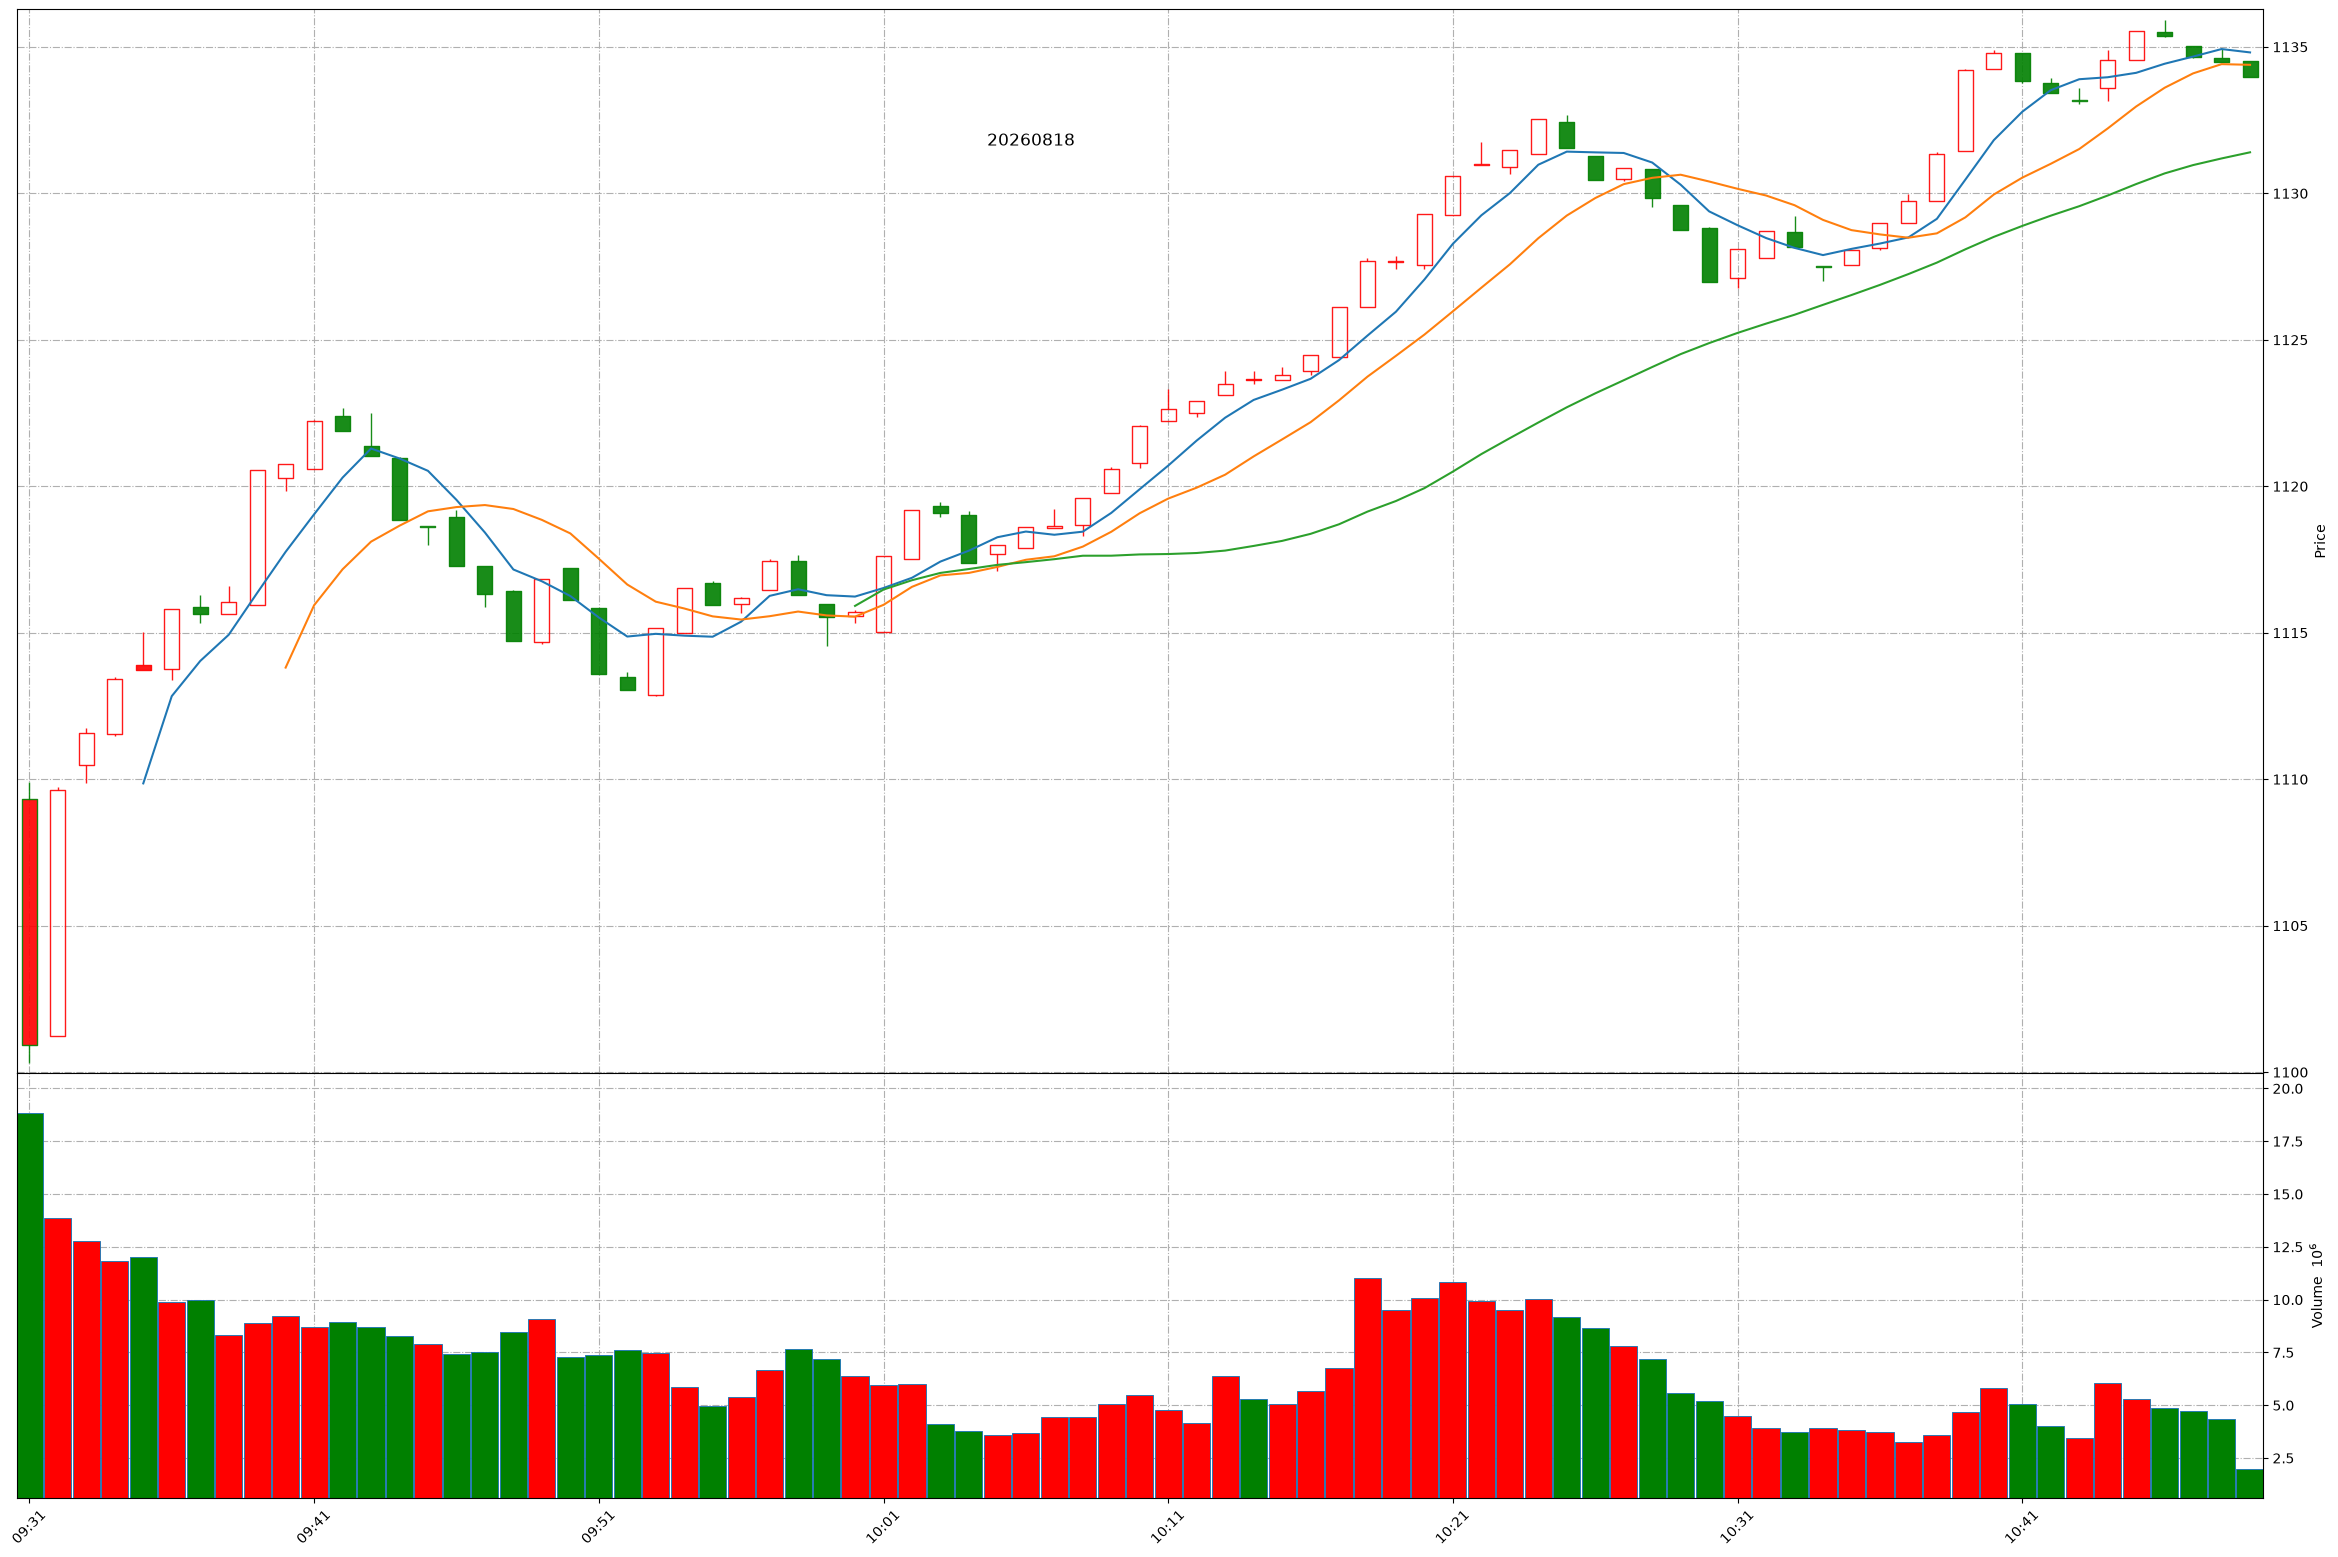
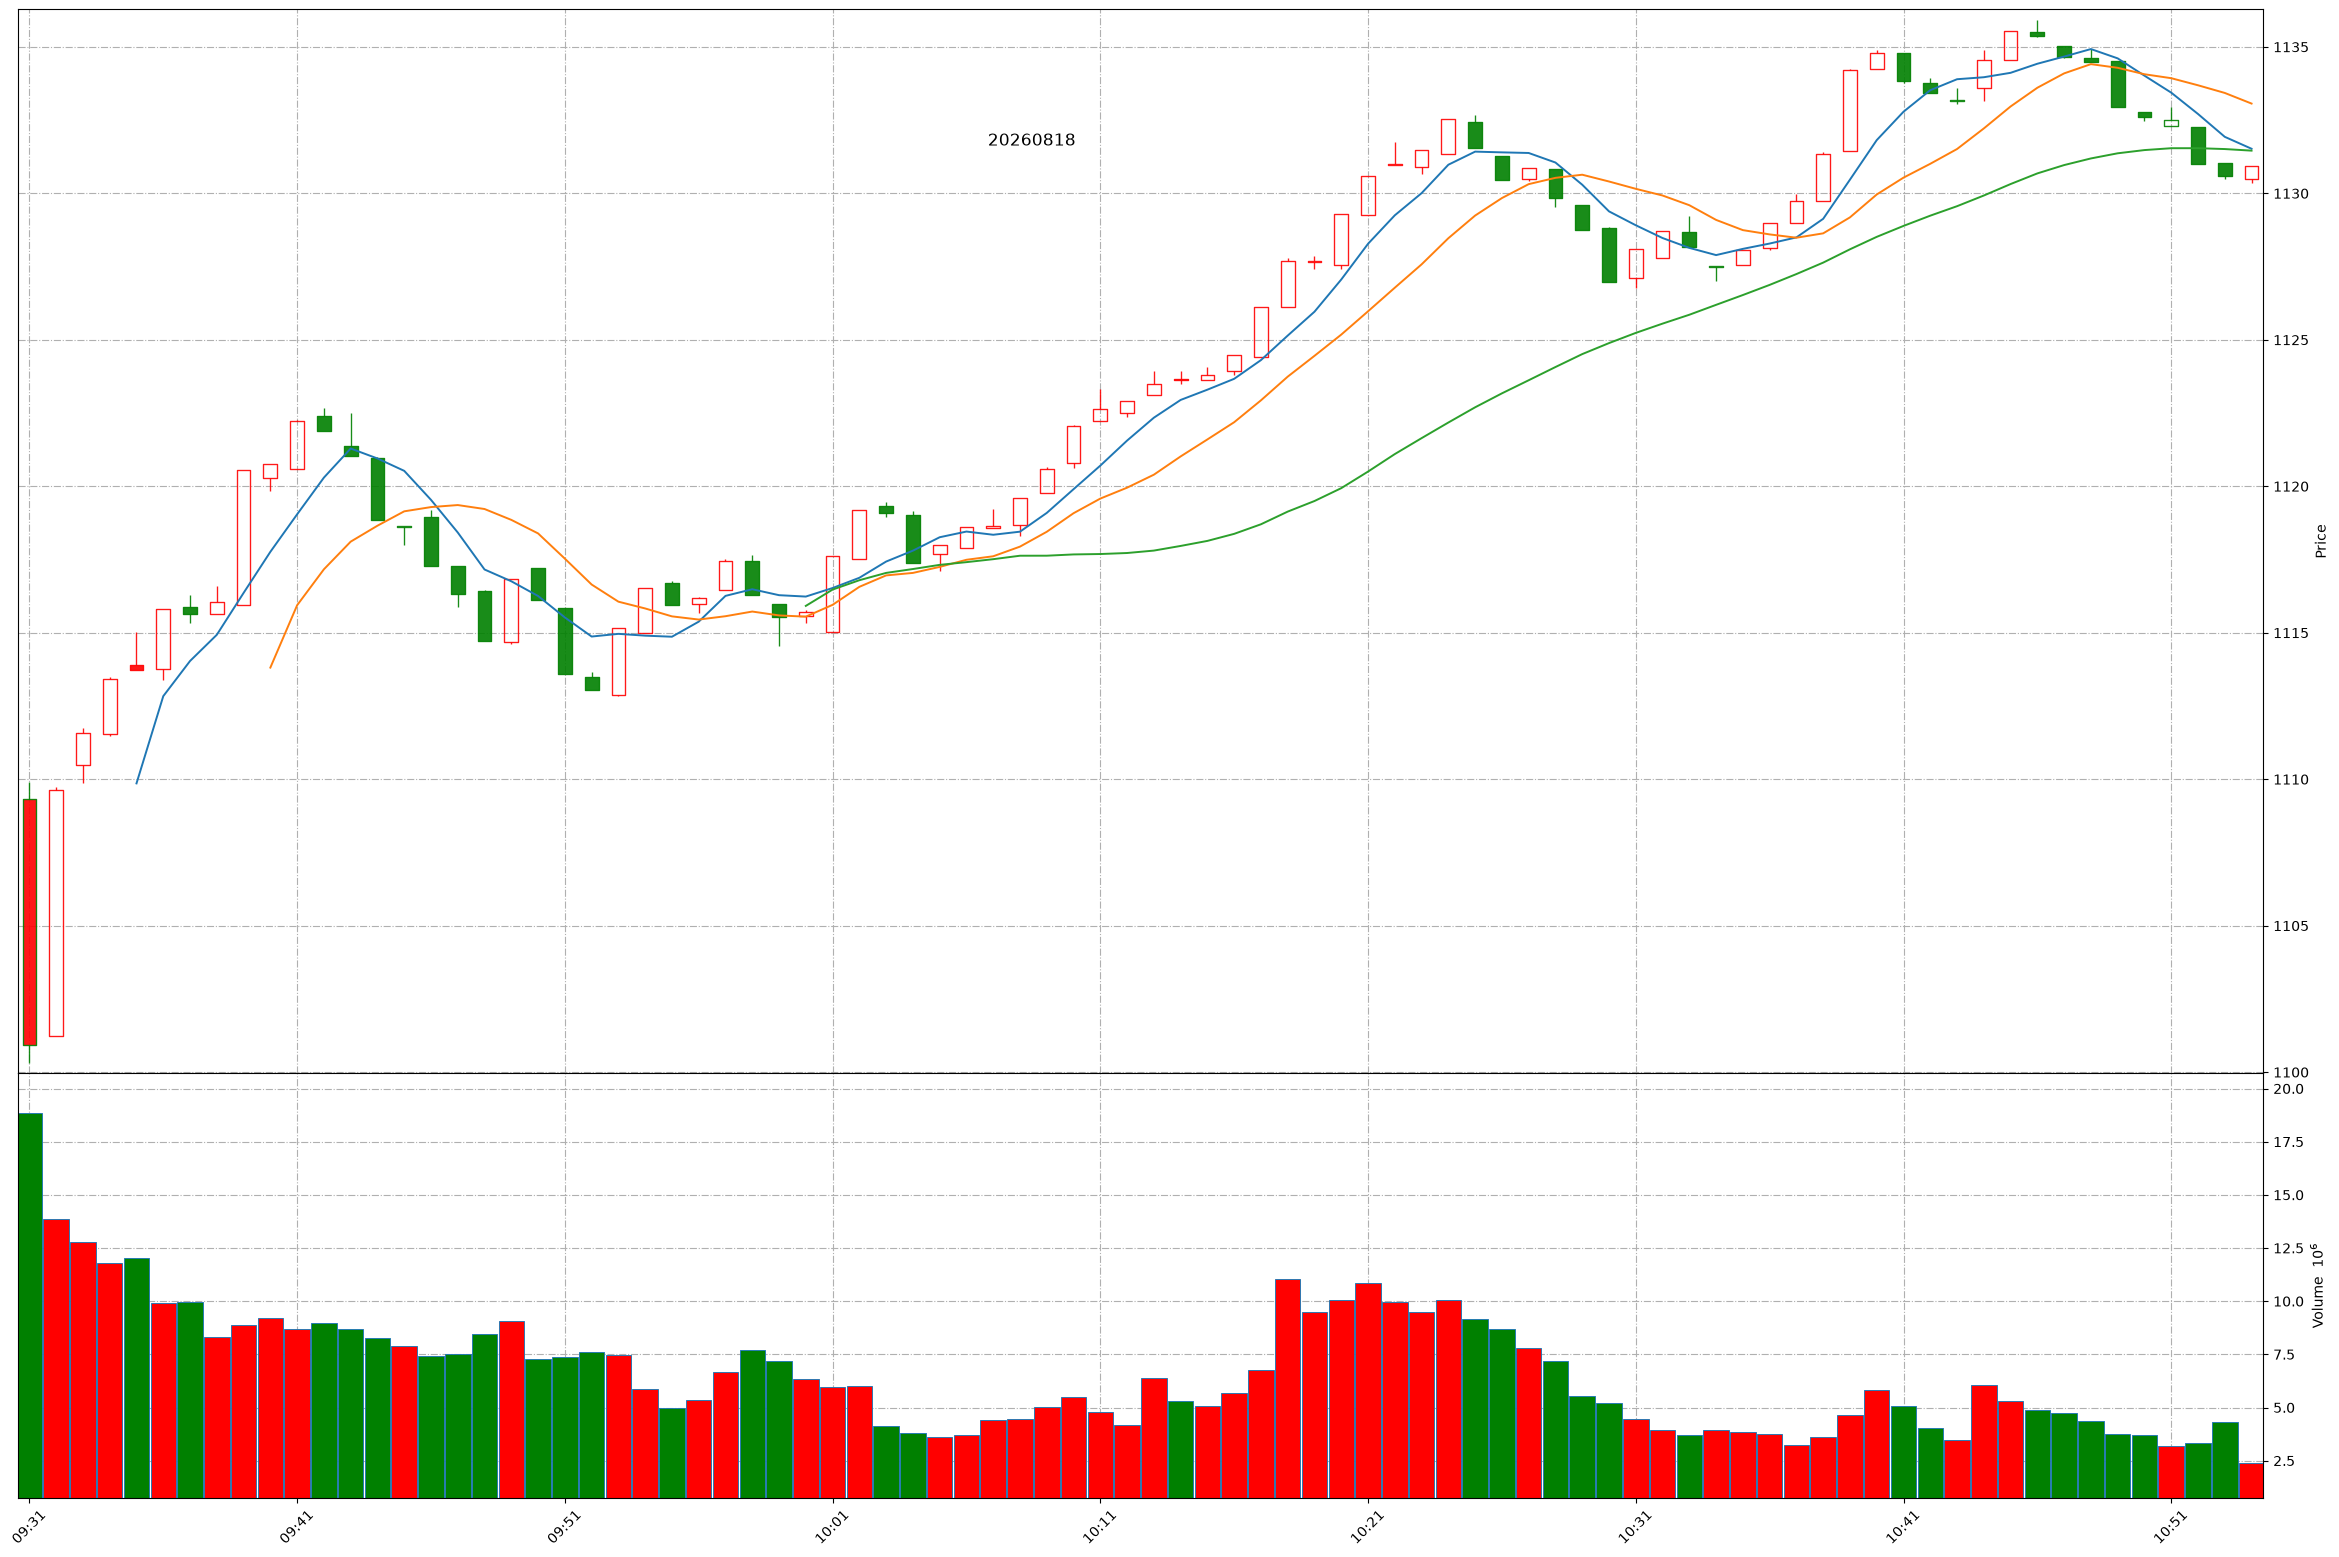
Github action update at 2026-08-18 10:54:08.

diff --git a/README.md b/README.md
@@ -1,11 +1,11 @@
 
 # Daily-A-share-market-quotes 每日 A 股指数（5min 更新）- 20260818
 
-### 上证指数 20260818 10:48
+### 上证指数 20260818 10:54
 ![](./fig/2026/8/20260818-sh000001.png)
 
-### 深证成指 20260818 10:48
+### 深证成指 20260818 10:54
 ![](./fig/2026/8/20260818-sz399001.png)
 
-### 北证50 20260818 10:48
+### 北证50 20260818 10:54
 ![](./fig/2026/8/20260818-bj899050.png)
